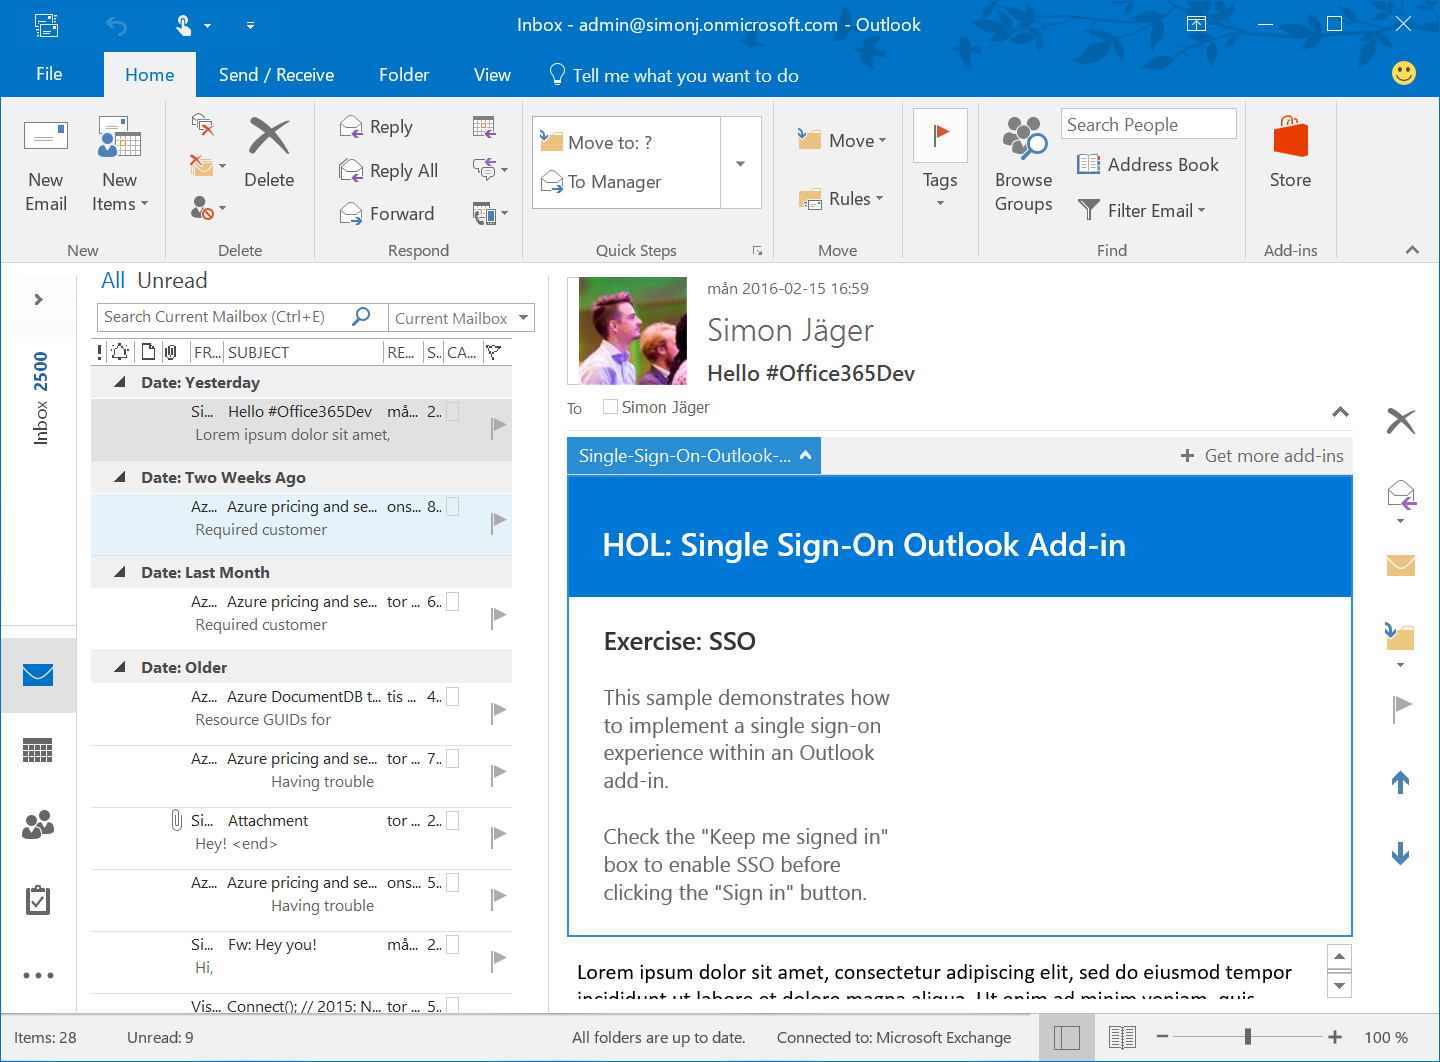
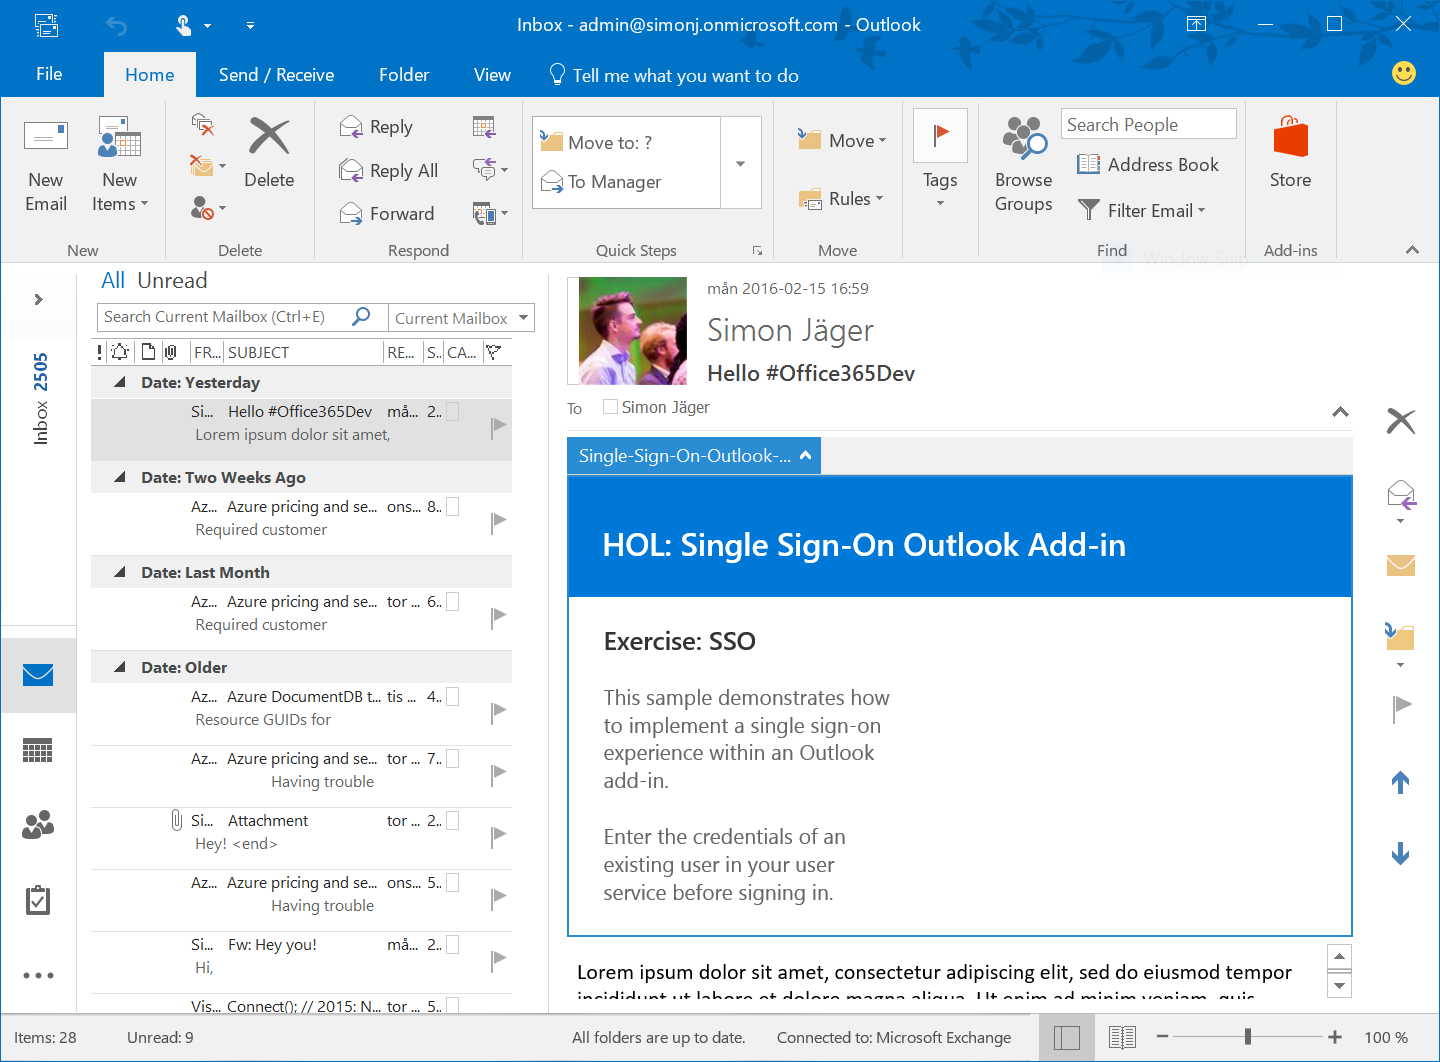
Single-Sign-On-Outlook-Add-in: Updated README.md

Changed region(s): [[0.0625, 0.4661, 0.375, 0.5282], [0.4062, 0.7768, 0.5938, 0.8701], [0.8438, 0.404, 0.9375, 0.435]]

diff --git a/Single-Sign-On-Outlook-Add-in/README.md b/Single-Sign-On-Outlook-Add-in/README.md
@@ -2,7 +2,11 @@
 
 With the new application model for Office comes a brand new way of extending Office with your own functionality - using the tools and dev stacks that we already know and love. 
 
-This hands-on lab demonstrates a few different ways to interact with the Office context.  Accessing different types of data for a mailbox item (message or appointment) in read mode. In addition, Different styles and components from the Office UI Fabric library are used throughout this Office add-in. 
+In mail add-ins, we have access to a great functionality within the APIs to get an identity token. This identity token represents the Office 365 user and is key when it comes to building a single sign-on experience for your users. If you would like to learn more about what’s inside the identity token – head to: http://simonjaeger.com/dissecting-and-validating-the-exchange-identity-token/
+
+Why would you want to do this? Imagine if your add-in could sign in the user as soon as the add-in starts in Outlook – without having to ask for credentials every time. Not only is this behavior annoying from a user standpoint, but it’s also possible to overcome this because we have access to the identity token.
+
+This hands-on lab demonstrates how to implement a single sign-on experience within an Outlook add-in. In addition, Different styles and components from the Office UI Fabric library are used throughout this Office add-in. 
 The objective is to get familiar with some of the possiblities that we have when building Excel add-ins.
 
 The hands-on lab is divided into multiple exercises and should be followed in a chronological order. These are the included exercises:
@@ -280,7 +284,7 @@ Our first task is to clean up the project, and remove the default styling and se
                         This sample demonstrates how to implement a single sign-on experience within an Outlook add-in.
                         <br />
                         <br />
-                        Check the "Keep me signed in" box to enable SSO before clicking the "Sign in" button.
+                        Enter the credentials of an existing user in your user service before signing in.
                     </p>
                 </div>
 
@@ -620,7 +624,7 @@ We need to implement two parts to achieve the above; the front-end (add-in) and 
                             This sample demonstrates how to implement a single sign-on experience within an Outlook add-in.
                             <br />
                             <br />
-                            Check the "Keep me signed in" box to enable SSO before clicking the "Sign in" button.
+                            Enter the credentials of an existing user in your user service before signing in.
                         </p>
                     </div>
 
